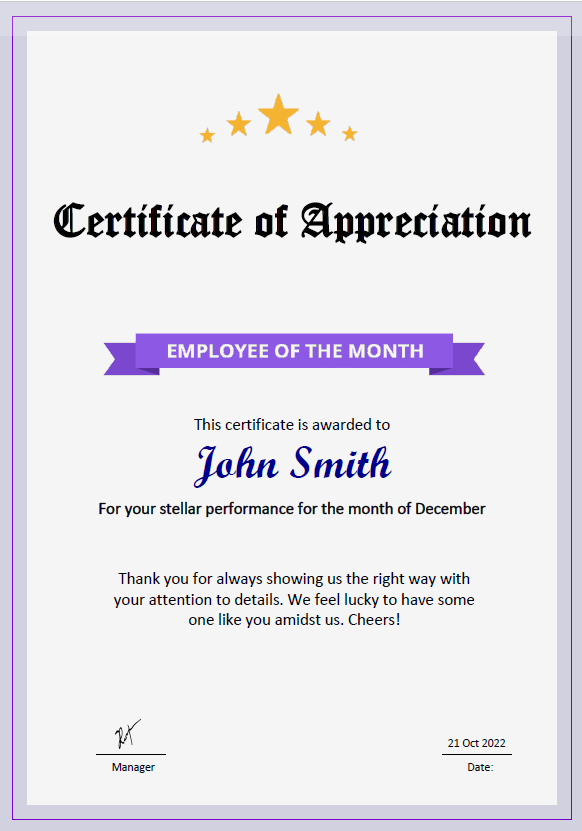
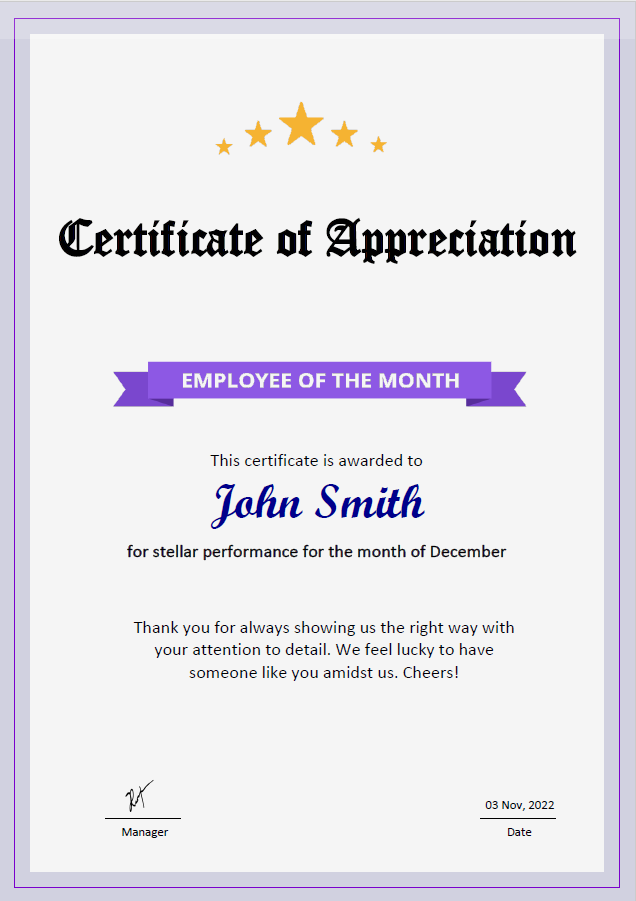
Modified the content as per the content review sample PDF

diff --git a/PatientMedicalRecord/PatientMedicalRecord/PatientRecordDocument.cs b/PatientMedicalRecord/PatientMedicalRecord/PatientRecordDocument.cs
@@ -264,7 +264,7 @@ namespace PatientMedicalRecord
             result = new PdfTextElement(model.MedicalInformation.Immunizations, textFont).Draw(currentPage, new RectangleF(leftPadding, result.Bounds.Bottom, halfwidth, rectangleBounds.Height));
 
             //Add medical problems at the specified location and specified size 
-            result = new PdfTextElement("List any Medical Problems(asthma, seizures, headache):", textFont, new PdfPen(Color.Black, 0.5f)).Draw(currentPage, new RectangleF(leftPadding, result.Bounds.Bottom + 20, clientSize.Width, rectangleBounds.Height));
+            result = new PdfTextElement("List any Medical Problems(asthma, seizures, headache)", textFont, new PdfPen(Color.Black, 0.5f)).Draw(currentPage, new RectangleF(leftPadding, result.Bounds.Bottom + 20, clientSize.Width, rectangleBounds.Height));
             result = new PdfTextElement(model.MedicalInformation.MedicalProblem, textFont).Draw(currentPage, new RectangleF(leftPadding, result.Bounds.Bottom, halfwidth, rectangleBounds.Height));
 
             //Add address at the specified location and specified size 
@@ -274,8 +274,8 @@ namespace PatientMedicalRecord
             result1 = new PdfTextElement(address, textFont).Draw(currentPage, new RectangleF(rightPadding, result1.Bounds.Bottom, halfwidth, rectangleBounds.Height));
 
             //Add policy number and medical insurance details at the specified location and specified size 
-            result1 = new PdfTextElement("Policy Number:", textFont, new PdfPen(Color.Black, 0.5f)).Draw(currentPage, new RectangleF(rightPadding, result.Bounds.Bottom + 20, halfwidth, rectangleBounds.Height));
-            result = new PdfTextElement("If any Medical Insurance:", textFont, new PdfPen(Color.Black, 0.5f)).Draw(currentPage, new RectangleF(leftPadding, result.Bounds.Bottom + 20, halfwidth, rectangleBounds.Height));        
+            result1 = new PdfTextElement("Policy Number", textFont, new PdfPen(Color.Black, 0.5f)).Draw(currentPage, new RectangleF(rightPadding, result.Bounds.Bottom + 20, halfwidth, rectangleBounds.Height));
+            result = new PdfTextElement("If any Medical Insurance", textFont, new PdfPen(Color.Black, 0.5f)).Draw(currentPage, new RectangleF(leftPadding, result.Bounds.Bottom + 20, halfwidth, rectangleBounds.Height));        
             result = new PdfTextElement(model.MedicalInformation.MedicalInsurance, textFont).Draw(currentPage, new RectangleF(leftPadding, result.Bounds.Bottom, halfwidth, rectangleBounds.Height));
             result1 = new PdfTextElement(model.MedicalInformation.PolicyNumber.ToString(), textFont).Draw(currentPage, new RectangleF(rightPadding, result1.Bounds.Bottom, halfwidth, rectangleBounds.Height));
             #endregion

diff --git a/EmployeeCertificate/EmployeeCertificate/CertificateDocument.cs b/EmployeeCertificate/EmployeeCertificate/CertificateDocument.cs
@@ -117,12 +117,12 @@ namespace EmployeeCertificate
             result = new PdfTextElement(text, nameFont, PdfBrushes.DarkBlue).Draw(currentPage, bounds);
 
             //Draw content text 
-            text = "For your stellar performance for the month of December";
+            text = "for stellar performance for the month of December";
             bounds = GetBounds(text, result.Bounds.Bottom + 10, contentFont, clientSize.Width);
             result = new PdfTextElement(text, contentFont, new PdfPen(Color.Black, 0.5f)).Draw(currentPage, bounds);
 
             //Draw content text 
-            text = "Thank you for always showing us the right way with your attention to details. We feel lucky to have some one like you amidst us. Cheers!";
+            text = "Thank you for always showing us the right way with your attention to detail. We feel lucky to have someone like you amidst us. Cheers!";
             bounds = GetBounds(text, result.Bounds.Bottom + 50, textFont, 370);
             PdfTextElement textElement = new PdfTextElement(text, textFont);
             textElement.StringFormat = new PdfStringFormat(PdfTextAlignment.Center);
@@ -141,7 +141,7 @@ namespace EmployeeCertificate
             //Draw line
             currentPage.Graphics.DrawLine(new PdfPen(Color.Black), new PointF(450, clientSize.Height - 80), new PointF(520, clientSize.Height - 80));
             //Draw manager text 
-            new PdfTextElement("Date:", footerFont).Draw(currentPage, new PointF(475, clientSize.Height - 75));
+            new PdfTextElement("Date", footerFont).Draw(currentPage, new PointF(475, clientSize.Height - 75));
             //Draw date
             new PdfTextElement(model.DateOfSign, footerFont).Draw(currentPage, new PointF(455, clientSize.Height-100));
 

diff --git a/PatientMedicalRecord/PatientMedicalRecord/PatientDataSource.cs b/PatientMedicalRecord/PatientMedicalRecord/PatientDataSource.cs
@@ -35,7 +35,7 @@ namespace PatientMedicalRecord
                 Name = "John Smith",
                 PhoneNo = "(706) 296-9894",
                 PatientAddress = GetPatientAddress(),
-                BirthDate = "February 8th 1984",
+                BirthDate = "February 8th, 1984",
                 Weight = 68.89f,
                 Height = 162f,
             };

diff --git a/EmployeeCertificate/EmployeeCertificate/CertificateDataSource.cs b/EmployeeCertificate/EmployeeCertificate/CertificateDataSource.cs
@@ -20,7 +20,7 @@ namespace EmployeeCertificate
             {
                 EmployeeName = "John Smith",
                 ManagerSign = "../../../Assets/Sign.png", 
-                DateOfSign = DateTime.Now.ToString("dd MMM yyyy"),
+                DateOfSign = DateTime.Now.ToString("dd MMM, yyyy"),
             };
         }
     }

diff --git a/PatientMedicalRecord/README.md b/PatientMedicalRecord/README.md
@@ -16,7 +16,7 @@ The PatientMedicalRecord project is an example of medical report generation. Thi
 Image (Logo) of project is located in the **Assets/logo.png**.
 
 ### Output file
-The example creates the file **BoardingPass.pdf** in the output **bin/(debug|release)/net6.0** folder.
+The example creates the file **MedicalRecord.pdf** in the output **bin/(debug|release)/net6.0** folder.
 
 Refer to the following Output screenshot 
 ![Output image](PatientMedicalRecord/Result/OutputImage.png)
